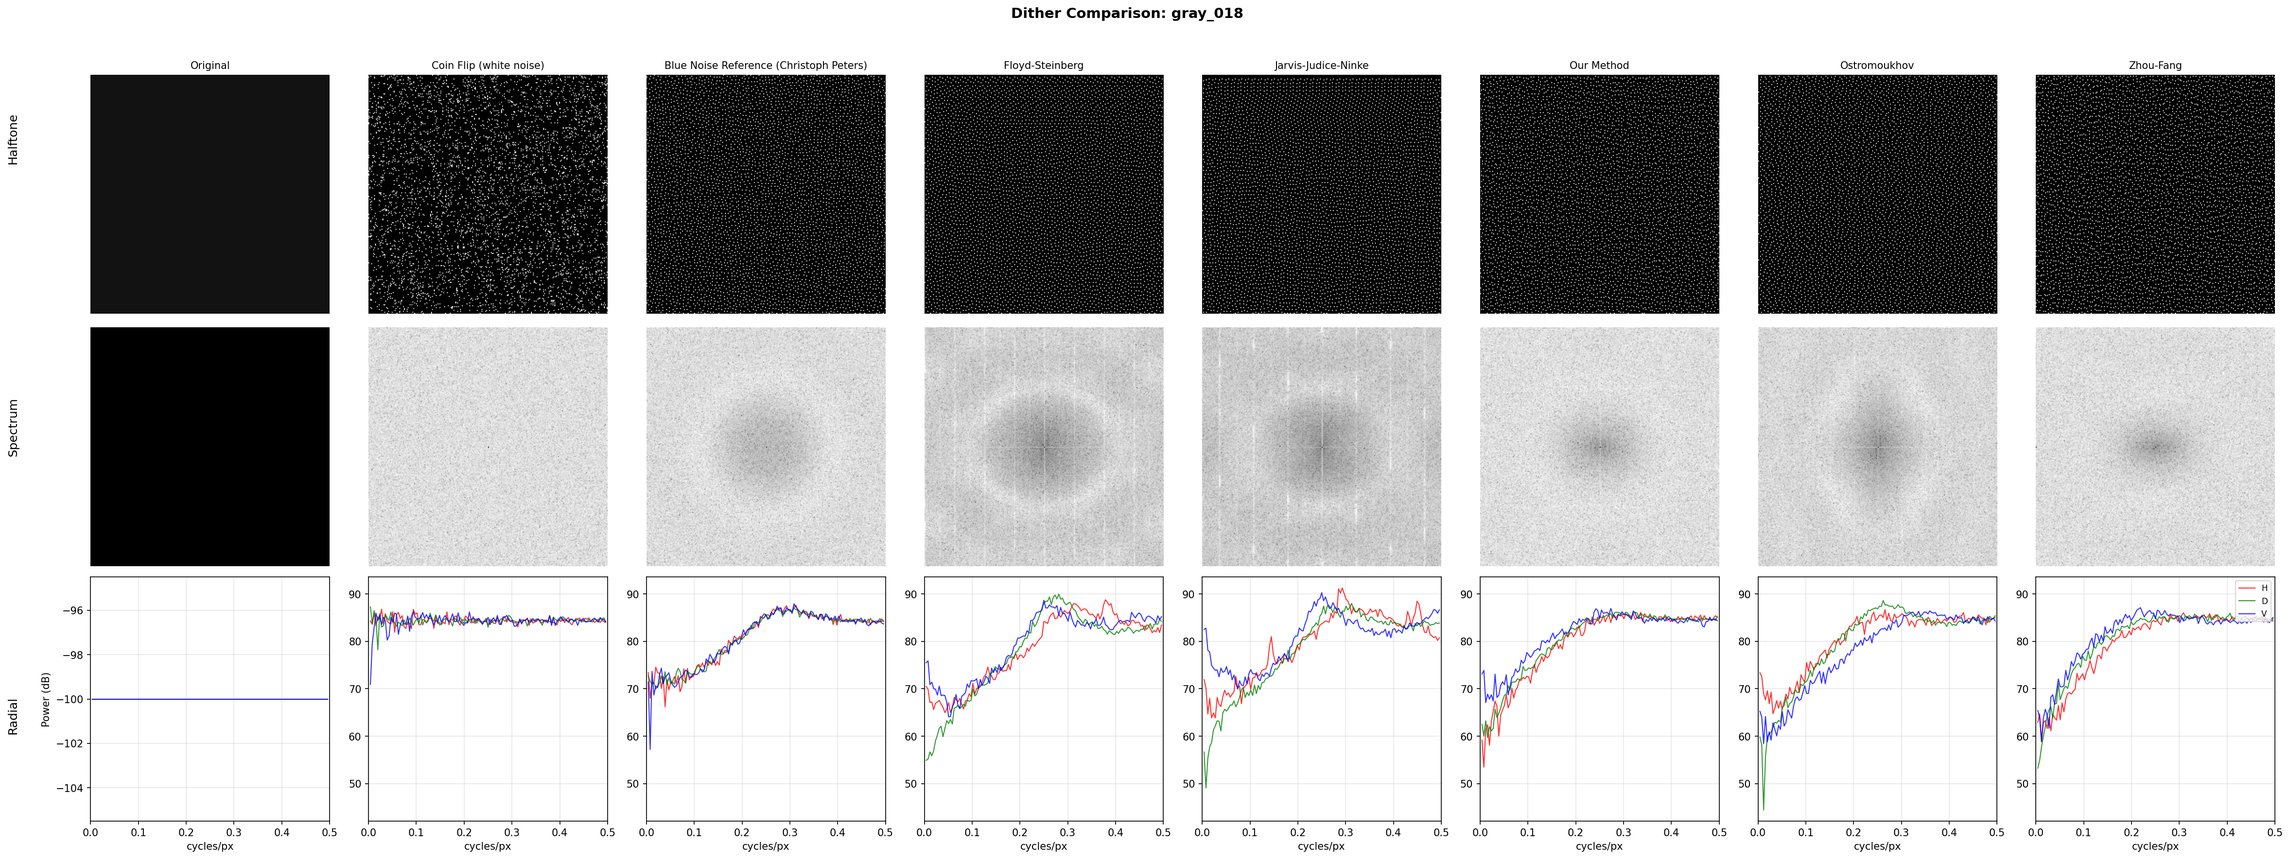
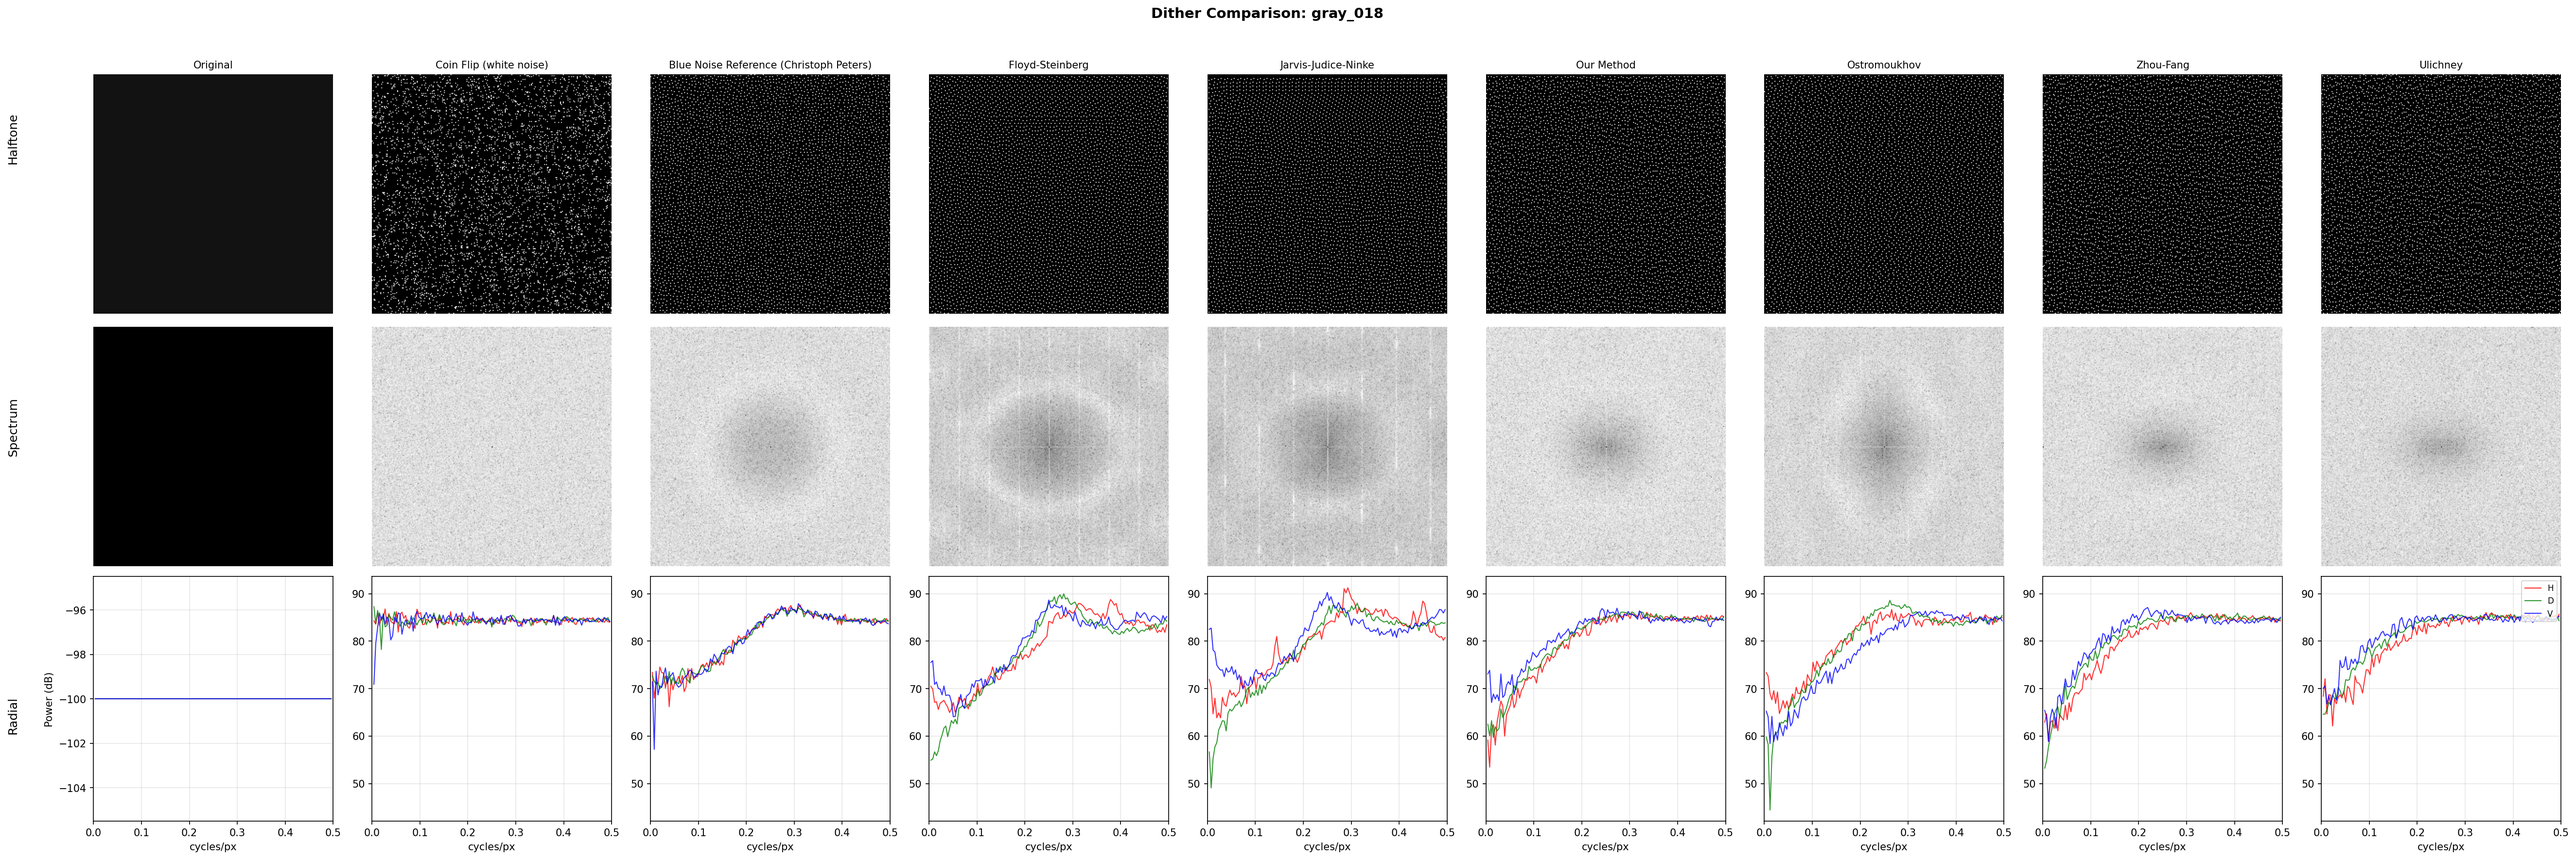
Compare analysis

diff --git a/port/src/bin/cra/main.rs b/port/src/bin/cra/main.rs
@@ -796,6 +796,8 @@ fn dither_grayscale(
             CSDitherMode::OstromoukhovSerpentine => DitherMode::OstromoukhovSerpentine,
             CSDitherMode::ZhouFangStandard => DitherMode::ZhouFangStandard,
             CSDitherMode::ZhouFangSerpentine => DitherMode::ZhouFangSerpentine,
+            CSDitherMode::UlichneyStandard => DitherMode::UlichneyStandard,
+            CSDitherMode::UlichneySerpentine => DitherMode::UlichneySerpentine,
             CSDitherMode::None => DitherMode::None,
         };
         dither_with_mode_bits(gray, width, height, basic_mode, seed, bits, progress)
@@ -1625,14 +1627,25 @@ fn main() -> Result<(), String> {
     let output_dither_mode = args.output_dither.to_cs_dither_mode();
     let output_alpha_mode = args.output_alpha_dither.map(|m| m.to_cs_dither_mode());
 
-    // Warn about Zhou-Fang limitations
-    let is_zhou_fang = matches!(
+    // Warn about threshold modulation limitations (Zhou-Fang and Ulichney)
+    let is_threshold_modulation = matches!(
         output_dither_mode,
-        CSDitherMode::ZhouFangStandard | CSDitherMode::ZhouFangSerpentine
+        CSDitherMode::ZhouFangStandard | CSDitherMode::ZhouFangSerpentine |
+        CSDitherMode::UlichneyStandard | CSDitherMode::UlichneySerpentine
     );
-    if is_zhou_fang && !args.no_colorspace_aware_output {
-        eprintln!("Warning: Zhou-Fang threshold modulation only works with --no-colorspace-aware-output.");
-        eprintln!("         With colorspace-aware dithering, Zhou-Fang falls back to Ostromoukhov (variable coefficients only).");
+    if is_threshold_modulation && !args.no_colorspace_aware_output {
+        let method_name = if matches!(output_dither_mode, CSDitherMode::ZhouFangStandard | CSDitherMode::ZhouFangSerpentine) {
+            "Zhou-Fang"
+        } else {
+            "Ulichney"
+        };
+        let fallback = if matches!(output_dither_mode, CSDitherMode::ZhouFangStandard | CSDitherMode::ZhouFangSerpentine) {
+            "Ostromoukhov"
+        } else {
+            "Floyd-Steinberg"
+        };
+        eprintln!("Warning: {} threshold modulation only works with --no-colorspace-aware-output.", method_name);
+        eprintln!("         With colorspace-aware dithering, {} falls back to {} (no threshold modulation).", method_name, fallback);
     }
 
     // Build the correction method (None if histogram is None)
@@ -1771,8 +1784,13 @@ fn main() -> Result<(), String> {
         if args.output_alpha_dither.is_some() {
             eprintln!("Warning: --output-alpha-dither is ignored for palette formats (alpha is integrated into main dithering)");
         }
-        if is_zhou_fang {
-            eprintln!("Warning: Zhou-Fang falls back to Ostromoukhov for palette formats (threshold modulation not applicable).");
+        if is_threshold_modulation {
+            let (method, fallback) = if matches!(output_dither_mode, CSDitherMode::ZhouFangStandard | CSDitherMode::ZhouFangSerpentine) {
+                ("Zhou-Fang", "Ostromoukhov")
+            } else {
+                ("Ulichney", "Floyd-Steinberg")
+            };
+            eprintln!("Warning: {} falls back to {} for palette formats (threshold modulation not applicable).", method, fallback);
         }
     } else {
         // --output-raw-palette is only valid for palette formats

diff --git a/port/src/bin/cra/args.rs b/port/src/bin/cra/args.rs
@@ -60,6 +60,10 @@ pub enum DitherMethod {
     ZhouFangStandard,
     /// Zhou-Fang: variable-coefficient kernel with threshold modulation, serpentine scanning
     ZhouFangSerpentine,
+    /// Ulichney: Floyd-Steinberg with random threshold modulation (±0.5), standard scanning
+    UlichneyStandard,
+    /// Ulichney: Floyd-Steinberg with random threshold modulation (±0.5), serpentine scanning
+    UlichneySerpentine,
     /// No error diffusion - each pixel quantized independently (produces banding)
     None,
     /// Boon with legacy wang_hash (for testing) - hidden from help
@@ -90,6 +94,8 @@ impl DitherMethod {
             DitherMethod::OstroSerpentine => DitherMode::OstromoukhovSerpentine,
             DitherMethod::ZhouFangStandard => DitherMode::ZhouFangStandard,
             DitherMethod::ZhouFangSerpentine => DitherMode::ZhouFangSerpentine,
+            DitherMethod::UlichneyStandard => DitherMode::UlichneyStandard,
+            DitherMethod::UlichneySerpentine => DitherMode::UlichneySerpentine,
             DitherMethod::None => DitherMode::None,
             DitherMethod::BoonWangStandard => DitherMode::MixedWangStandard,
             DitherMethod::BoonWangSerpentine => DitherMode::MixedWangSerpentine,
@@ -111,6 +117,8 @@ impl DitherMethod {
             DitherMethod::OstroSerpentine => CSDitherMode::OstromoukhovSerpentine,
             DitherMethod::ZhouFangStandard => CSDitherMode::ZhouFangStandard,
             DitherMethod::ZhouFangSerpentine => CSDitherMode::ZhouFangSerpentine,
+            DitherMethod::UlichneyStandard => CSDitherMode::UlichneyStandard,
+            DitherMethod::UlichneySerpentine => CSDitherMode::UlichneySerpentine,
             DitherMethod::None => CSDitherMode::None,
             DitherMethod::BoonWangStandard => CSDitherMode::MixedWangStandard,
             DitherMethod::BoonWangSerpentine => CSDitherMode::MixedWangSerpentine,

diff --git a/tools/analyze_dither.py b/tools/analyze_dither.py
@@ -224,6 +224,7 @@ def analyze_comparison(base_dir: Path, image_name: str, output_dir: Path):
         'boon-standard', 'boon-serpentine',
         'ostro-standard', 'ostro-serpentine',
         'zhou-fang-standard', 'zhou-fang-serpentine',
+        'ulichney-standard', 'ulichney-serpentine',
     ]
 
     images = {}
@@ -314,6 +315,7 @@ def analyze_serpentine_only(base_dir: Path, image_name: str, output_dir: Path):
         ('boon-serpentine', 'Our Method'),
         ('ostro-serpentine', 'Ostromoukhov'),
         ('zhou-fang-serpentine', 'Zhou-Fang'),
+        ('ulichney-serpentine', 'Ulichney'),
     ]
 
     images = {}

diff --git a/tools/README.md b/tools/README.md
@@ -59,6 +59,7 @@ Runs all test images through CRA with every dithering mode.
 - `boon-lowbias`, `boon-lowbias-serpentine` - Boon with original lowbias32 (bias 0.174, for comparison)
 - `ostro-standard`, `ostro-serpentine` - Ostromoukhov variable coefficients
 - `zhou-fang-standard`, `zhou-fang-serpentine` - Zhou-Fang threshold modulation
+- `ulichney-standard`, `ulichney-serpentine` - Ulichney: FS with random threshold modulation (±0.5)
 
 **Outputs** (`tools/test_images/dithered/{mode}/`):
 - L1 (1-bit) dithered versions of all test images
@@ -308,7 +309,9 @@ tools/
 │   │   ├── ostro-standard/      # Ostromoukhov standard
 │   │   ├── ostro-serpentine/    # Ostromoukhov serpentine
 │   │   ├── zhou-fang-standard/  # Zhou-Fang standard
-│   │   └── zhou-fang-serpentine/# Zhou-Fang serpentine
+│   │   ├── zhou-fang-serpentine/# Zhou-Fang serpentine
+│   │   ├── ulichney-standard/   # Ulichney standard
+│   │   └── ulichney-serpentine/ # Ulichney serpentine
 │   └── analysis/
 │       ├── *_serpentine.png           # Dither method comparison
 │       ├── *_hash_comparison.png      # Hash function comparison
